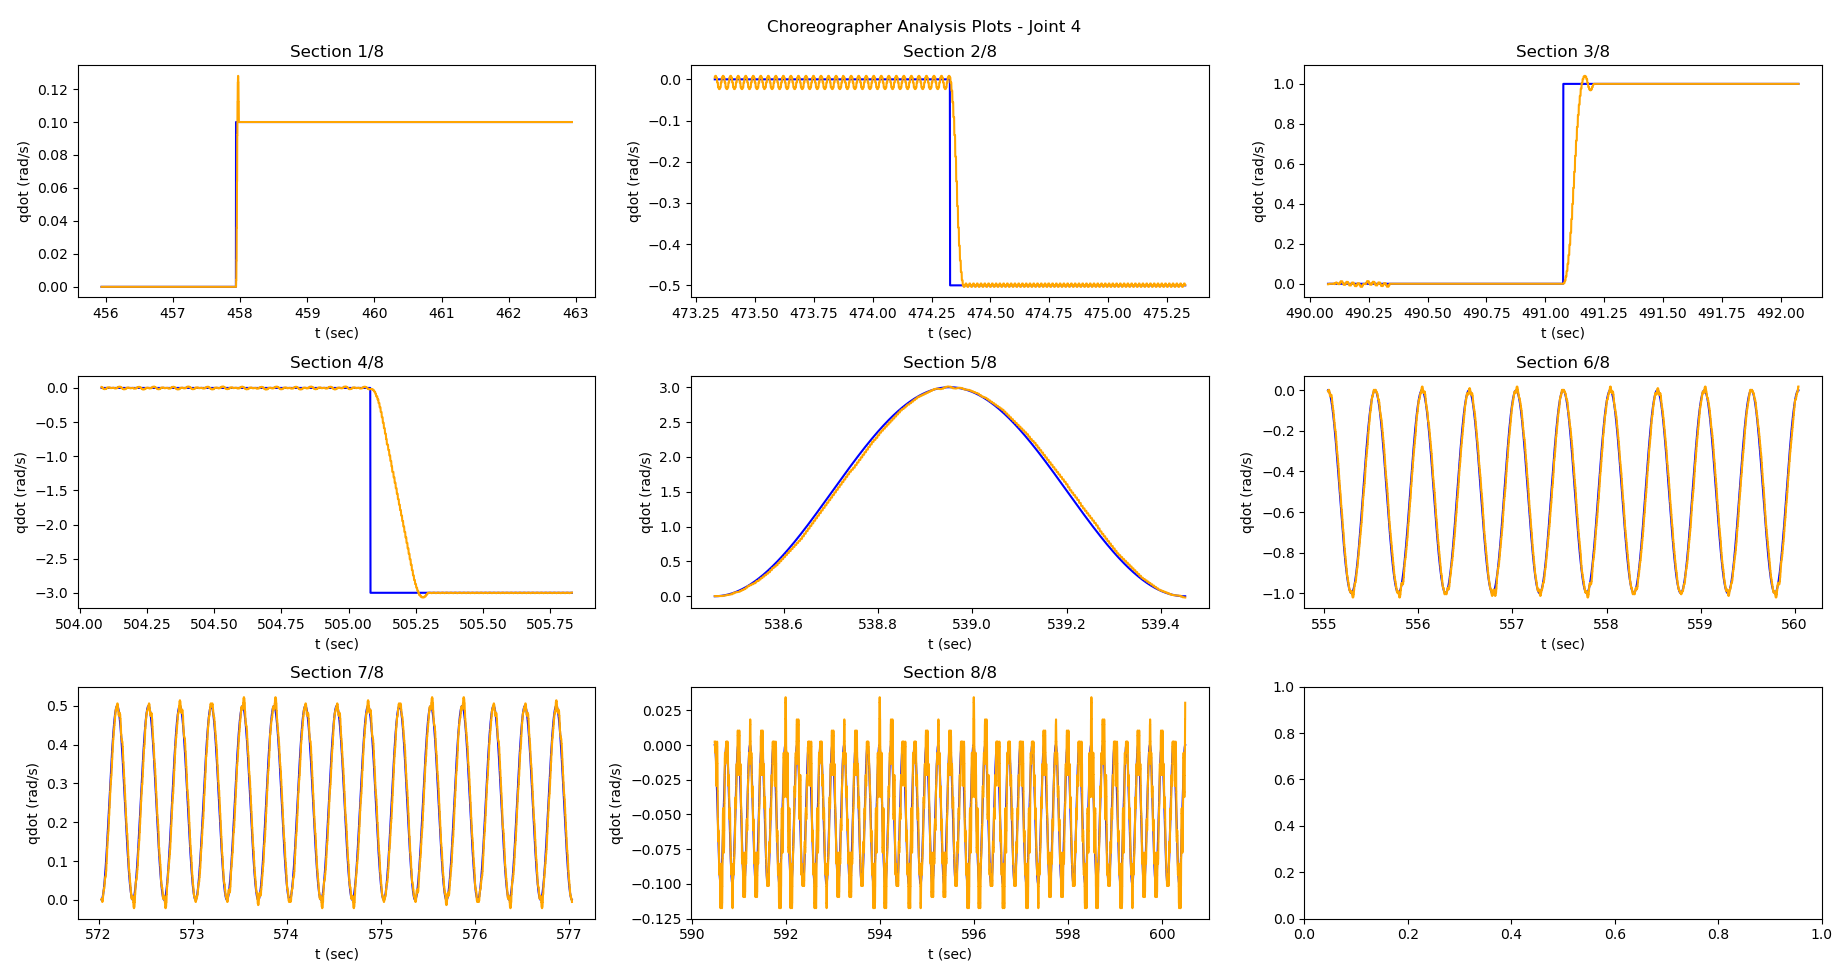
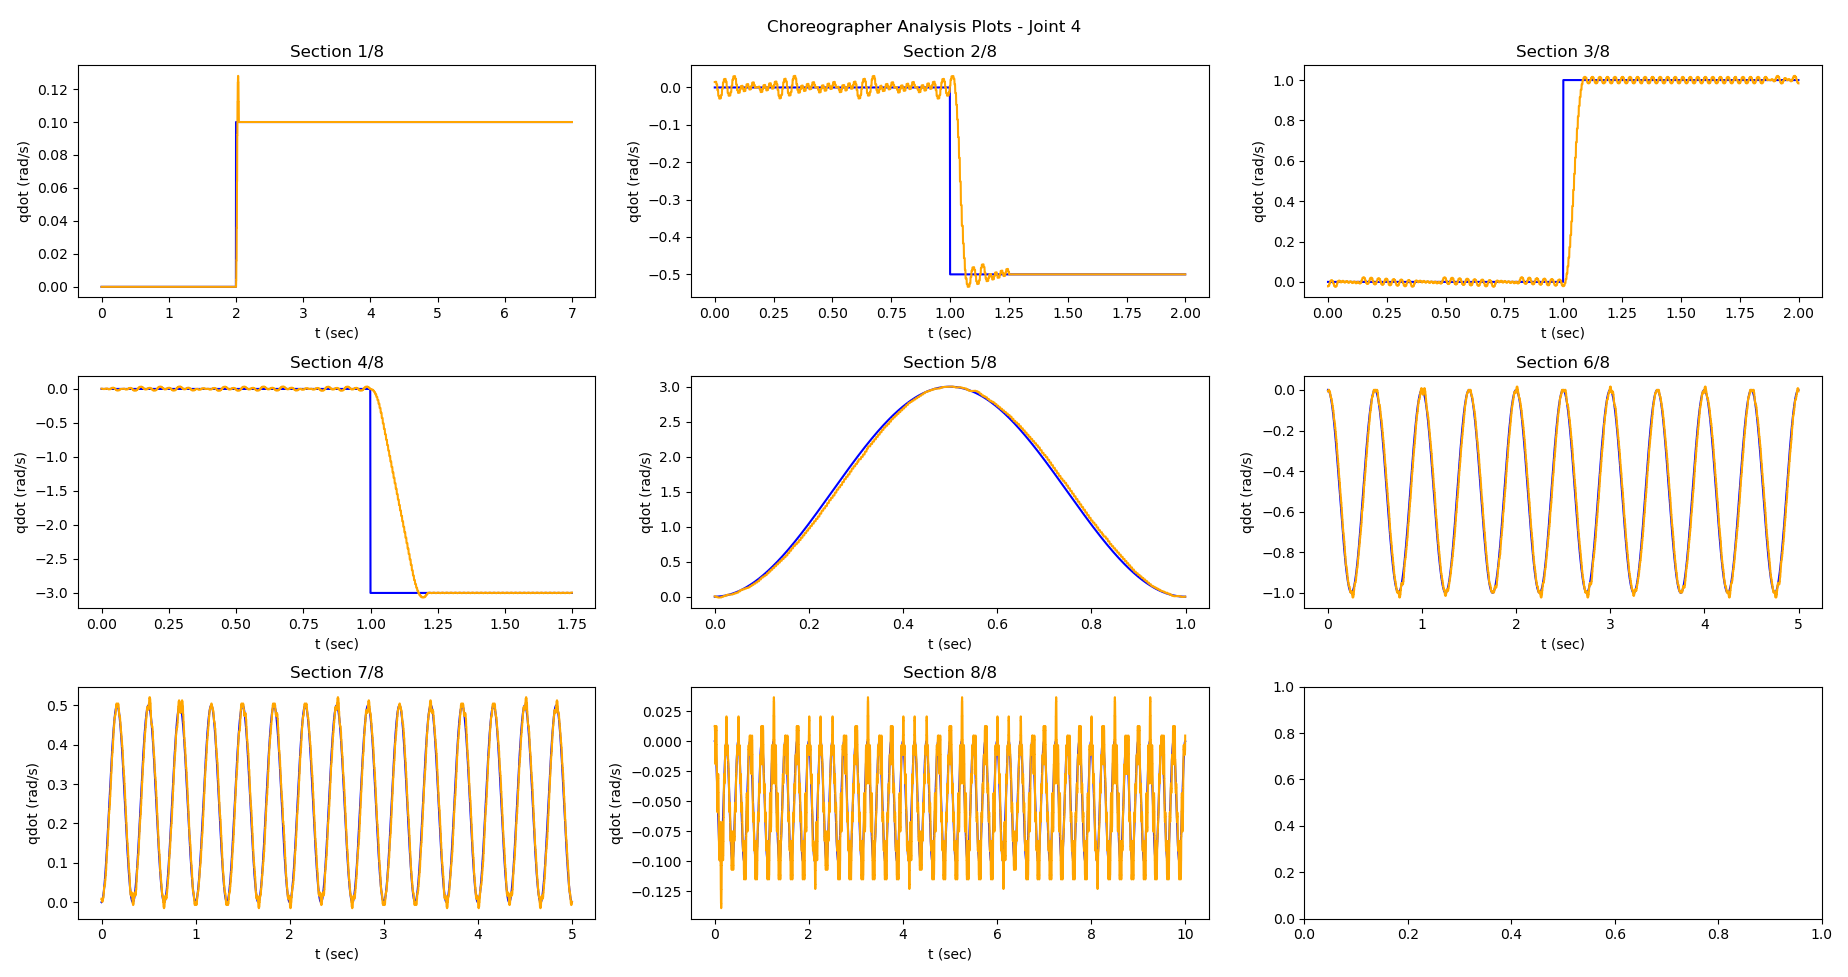
zero t start update

diff --git a/python/lite6/utils/lite6_hardware_utils.py b/python/lite6/utils/lite6_hardware_utils.py
@@ -82,8 +82,7 @@ class Lite6HardwareInterface(LeafSystem):
             size=LITE6_DOF,
             calc=self._compute_positions_estimated_output,
             prerequisites_of_calc={
-                self.nothing_ticket(),
-                #self.discrete_state_ticket(_lite6_state_estimated_index),
+                self.discrete_state_ticket(_lite6_state_estimated_index),
             },
         )
         self.ve_output_port = self.DeclareVectorOutputPort(
@@ -91,8 +90,7 @@ class Lite6HardwareInterface(LeafSystem):
             size=LITE6_DOF,
             calc=self._compute_velocities_estimated_output,
             prerequisites_of_calc={
-                self.nothing_ticket(),
-                #self.discrete_state_ticket(_lite6_state_estimated_index),
+                self.discrete_state_ticket(_lite6_state_estimated_index),
             },
         )
         self.gse_output_port = self.DeclareAbstractOutputPort(
@@ -100,8 +98,7 @@ class Lite6HardwareInterface(LeafSystem):
             alloc=lambda: Value(Lite6GripperStatus.NEUTRAL),
             calc=self._compute_gripper_status_estimated_output,
             prerequisites_of_calc={
-                self.nothing_ticket(),
-                #self.discrete_state_ticket(_lite6_state_estimated_index),
+                self.discrete_state_ticket(_lite6_state_estimated_index),
             },
         )
 

diff --git a/python/analysis/pliant_analysis/lite6_pliant_analysis.py b/python/analysis/pliant_analysis/lite6_pliant_analysis.py
@@ -115,7 +115,7 @@ if __name__ == "__main__":
 
     lite6_model_type = Lite6ModelType.ROBOT_WITH_RP_GRIPPER
     lite6_control_type = Lite6ControlType.VELOCITY
-    lite6_pliant_type = Lite6PliantType.HARDWARE
+    lite6_pliant_type = Lite6PliantType.SIMULATION
     inverse_dynamics_pid_gains = PIDGains.from_scalar_gains(
         size=8,
         kp_scalar=100.0,
